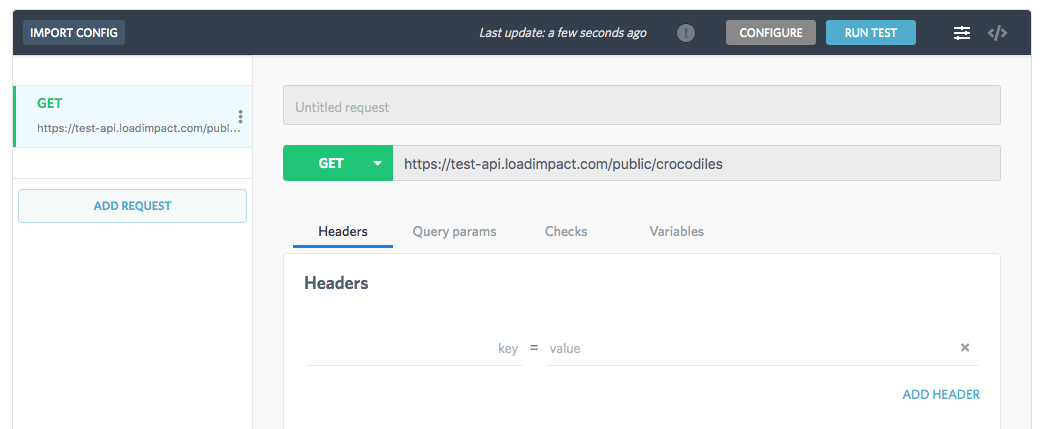
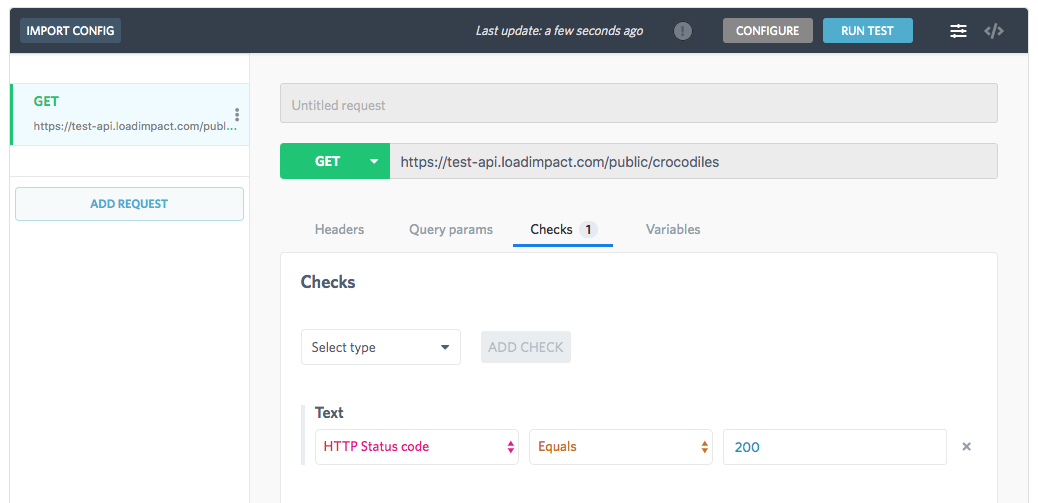
Copy and img update.

diff --git a/jekyll/_v4/guides/request-builder.md b/jekyll/_v4/guides/request-builder.md
@@ -29,10 +29,10 @@ In this guide we will go through the mechanics and parts of the LoadImpact reque
 <!-- If are not familiar with JavaScript but need to load test your API, single endpoint or website  -->
 
 ## Basic usage
-Creating a single endpoint test is dead simple, all that is required is basically the url you want to test.
-If the "run test" button is enabled it means that the configuration is solid and can be run. Hit the run button and the test will start running.
-In the following example we will
-Make requests to an endpoint and check that the HTTP status code is _200 OK!_.
+Creating a single endpoint test is dead simple, all that is required is basically the `URL` you want to test.<br>
+If the _run test_ button is enabled it means that the configuration is solid and can be run. Hit _run test_ and the test will start running.<br>
+
+The following example is a simple test hitting one endpoint and making sure that the HTTP status code is _200 OK_.
 ![basic test]({{ site.baseurl }}/assets/img/v4/guides/request-builder/basic-test.png)
 ![basic test loading]({{ site.baseurl }}/assets/img/v4/guides/request-builder/basic-test-loading.png)
 ![basic test starting]({{ site.baseurl }}/assets/img/v4/guides/request-builder/basic-test-starting.png)
@@ -106,7 +106,7 @@ Hit save and run and the test will start running.
 -----------
 
 ## Bailing out of the UI
-The request builder UI i pretty flexible and can be configured in many different ways. Would you reach a point where you cannot configure the test in the way you want you can always drop down into JavaScript and modify the code directly.
+The request builder UI is pretty flexible and can be configured in many different ways. Would you reach a point where you cannot configure the test in the way you want you can always drop down into JavaScript and modify the code directly.
 By switching over to the _script preview mode_ you can press the "create test from script" button, this will create a new test based on your configuration.
 ![javascript]({{ site.baseurl }}/assets/img/v4/guides/request-builder/script-preview.png)
 
